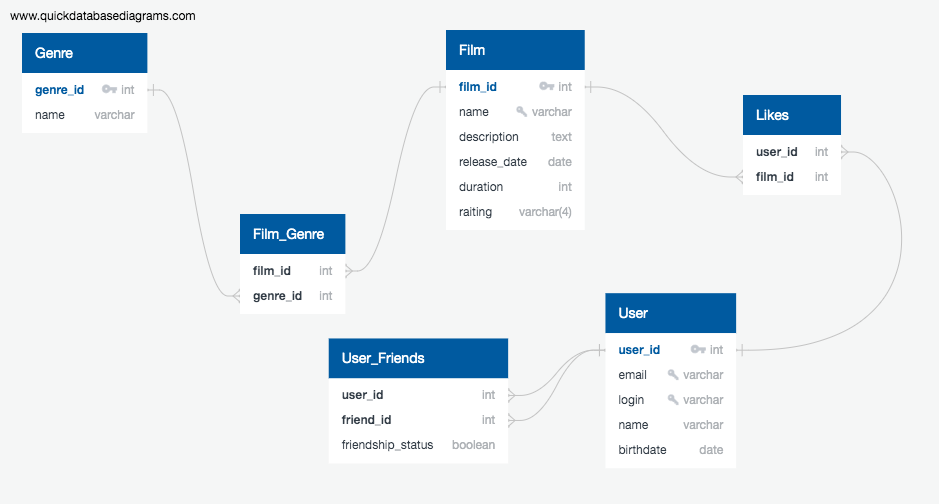
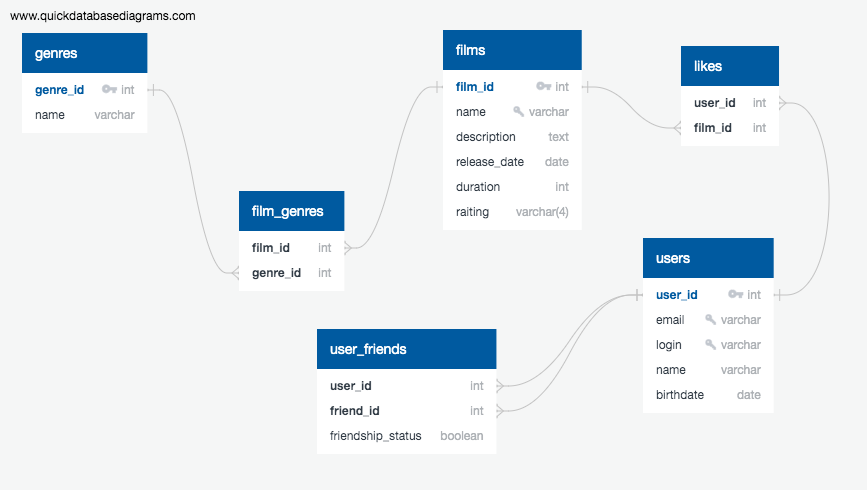
feat: update db-schema, update README.md

diff --git a/README.md b/README.md
@@ -3,4 +3,17 @@
 
 ## Схема базы данных
 
-![](/src/main/resources/FilmorateDB_schema.png)
+![](./src/main/resources/FilmorateDB_schema.png)
+
+### Примеры запросов:
+
+#### Film
+* получить все фильмы: `SELECT * FROM Film`
+* получить фильм по id: `SELECT * FROM Film WHERE film_id=1`
+* получить популярные фильмы: 
+`SELECT * FROM Film f JOIN Likes l ON l.film_id=f.film_id WHERE (SELECT COUNT(film_id) FROM Likes) > 10 `
+
+#### User 
+* получить всех пользователей:
+  `SELECT * FROM User`
+* получить пользователя по id: `SELECT * FROM User WHERE user_id=1`
